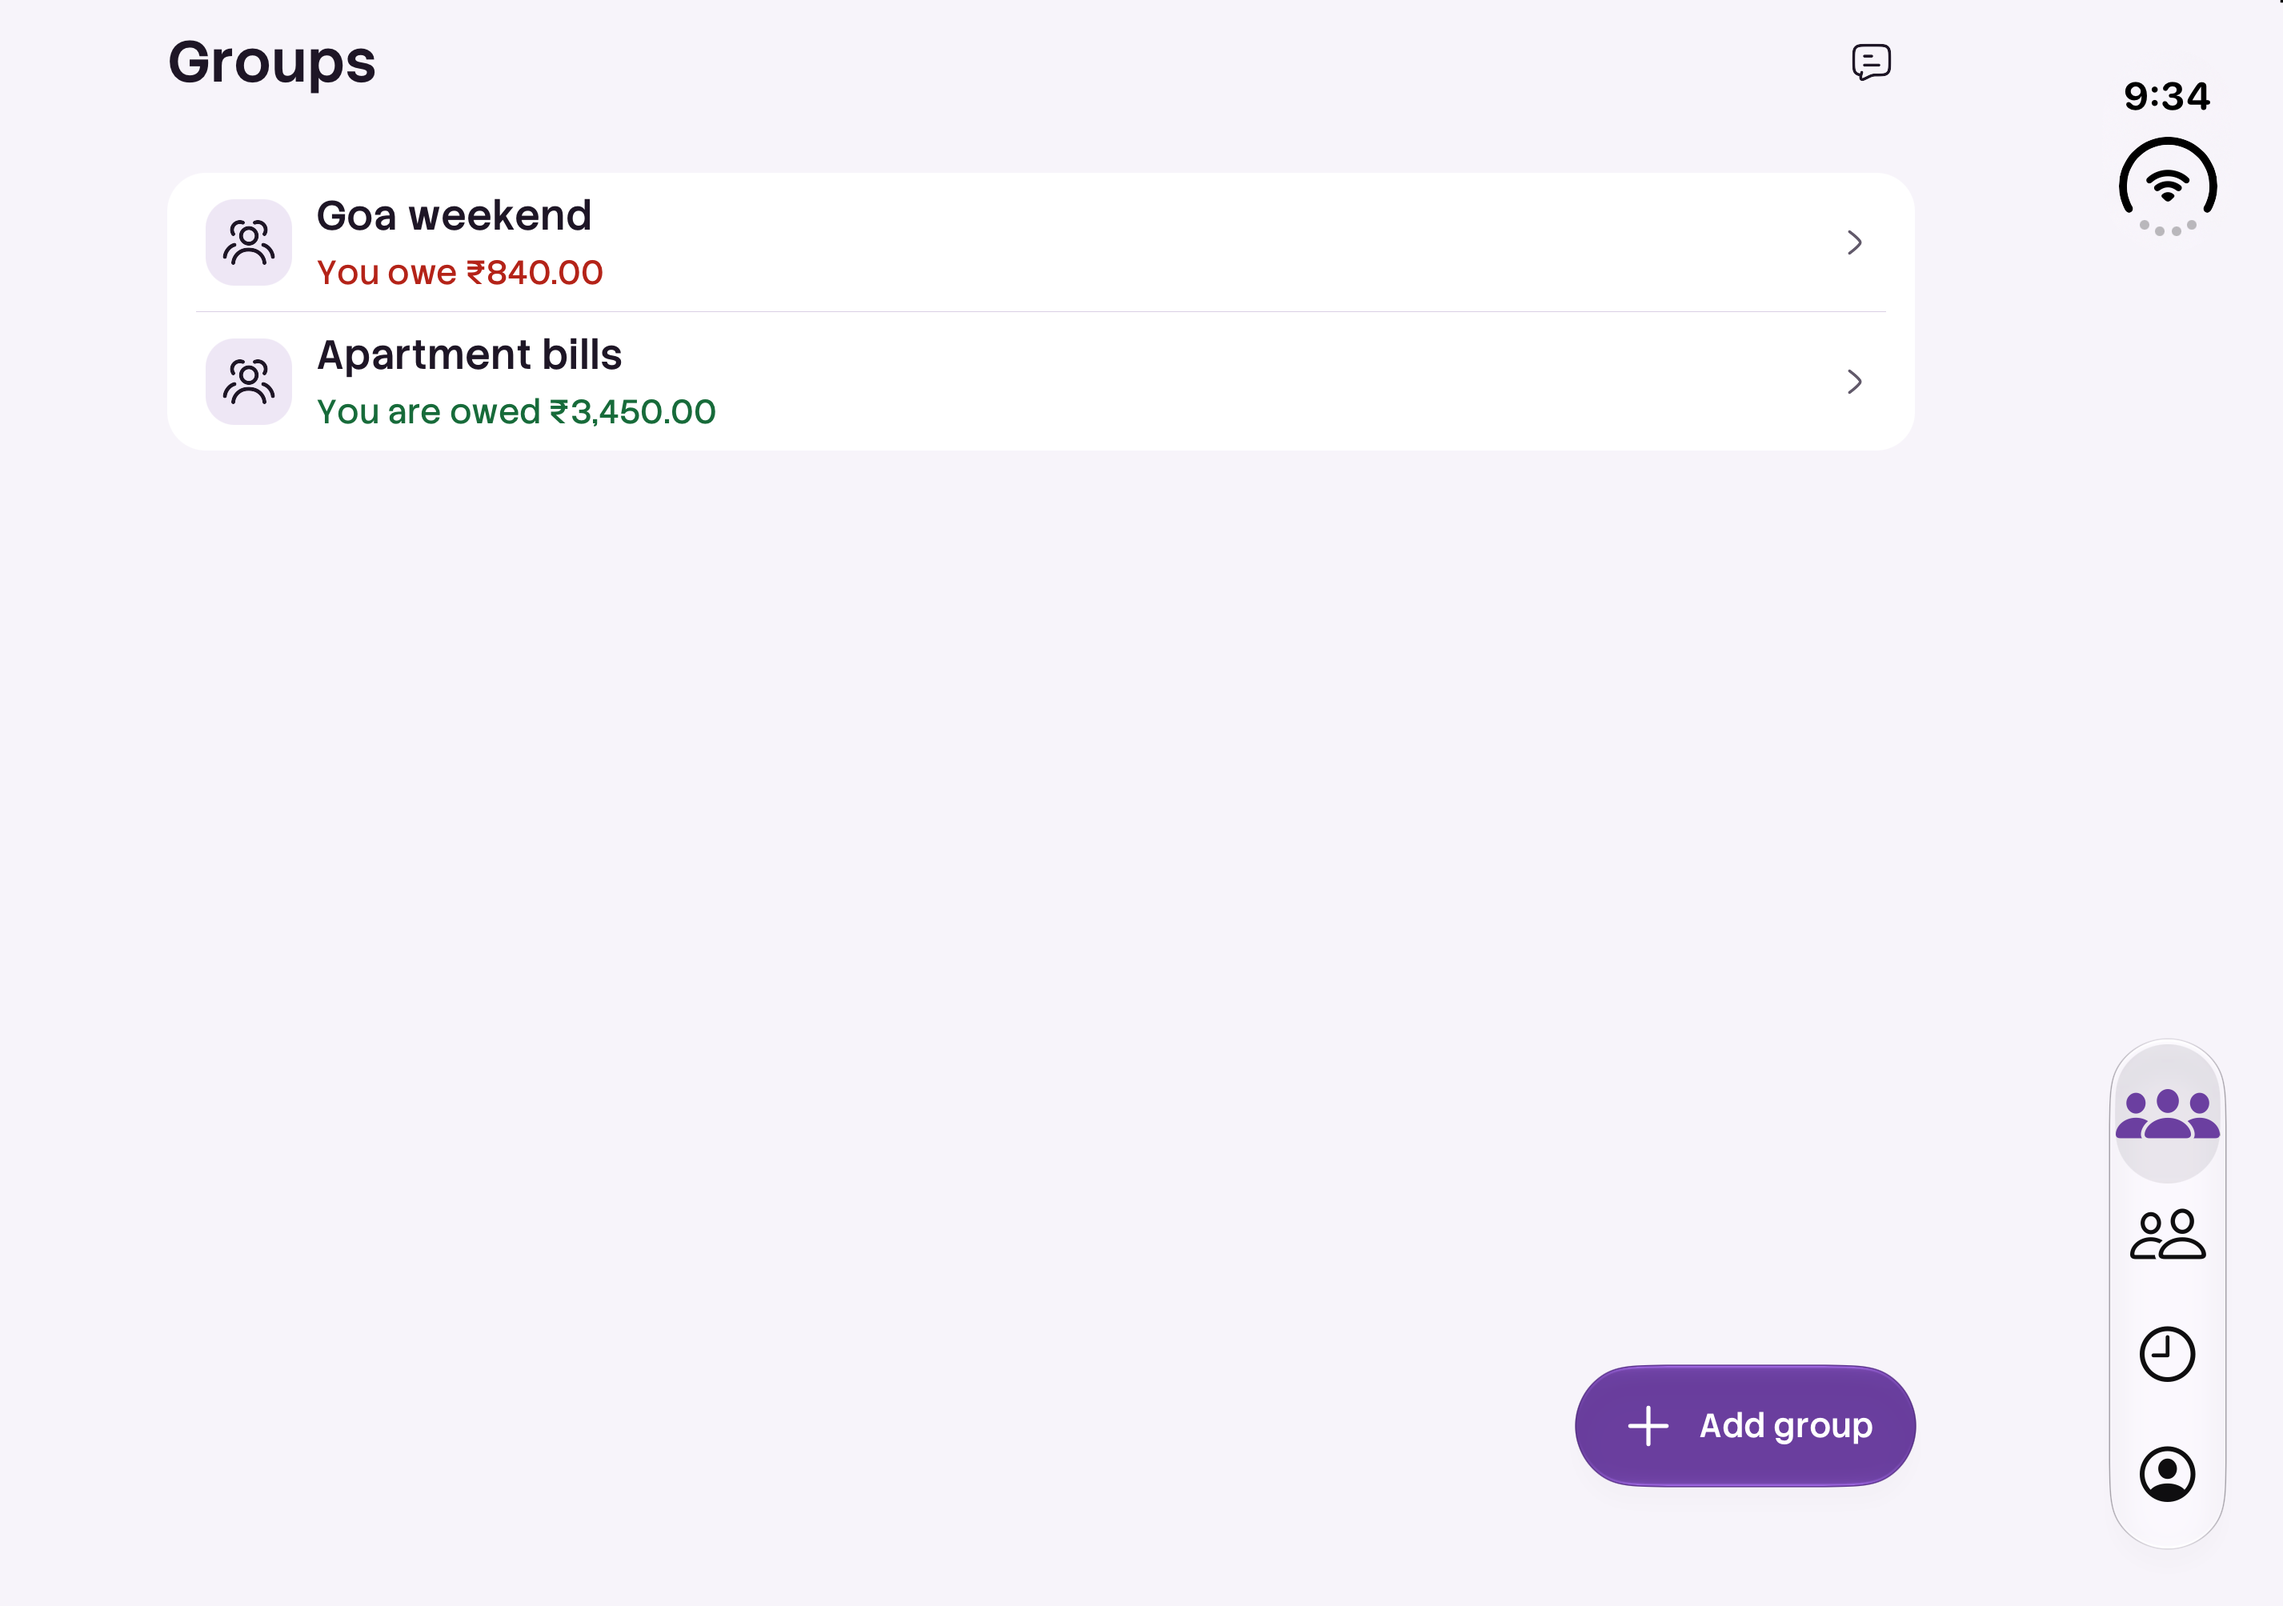
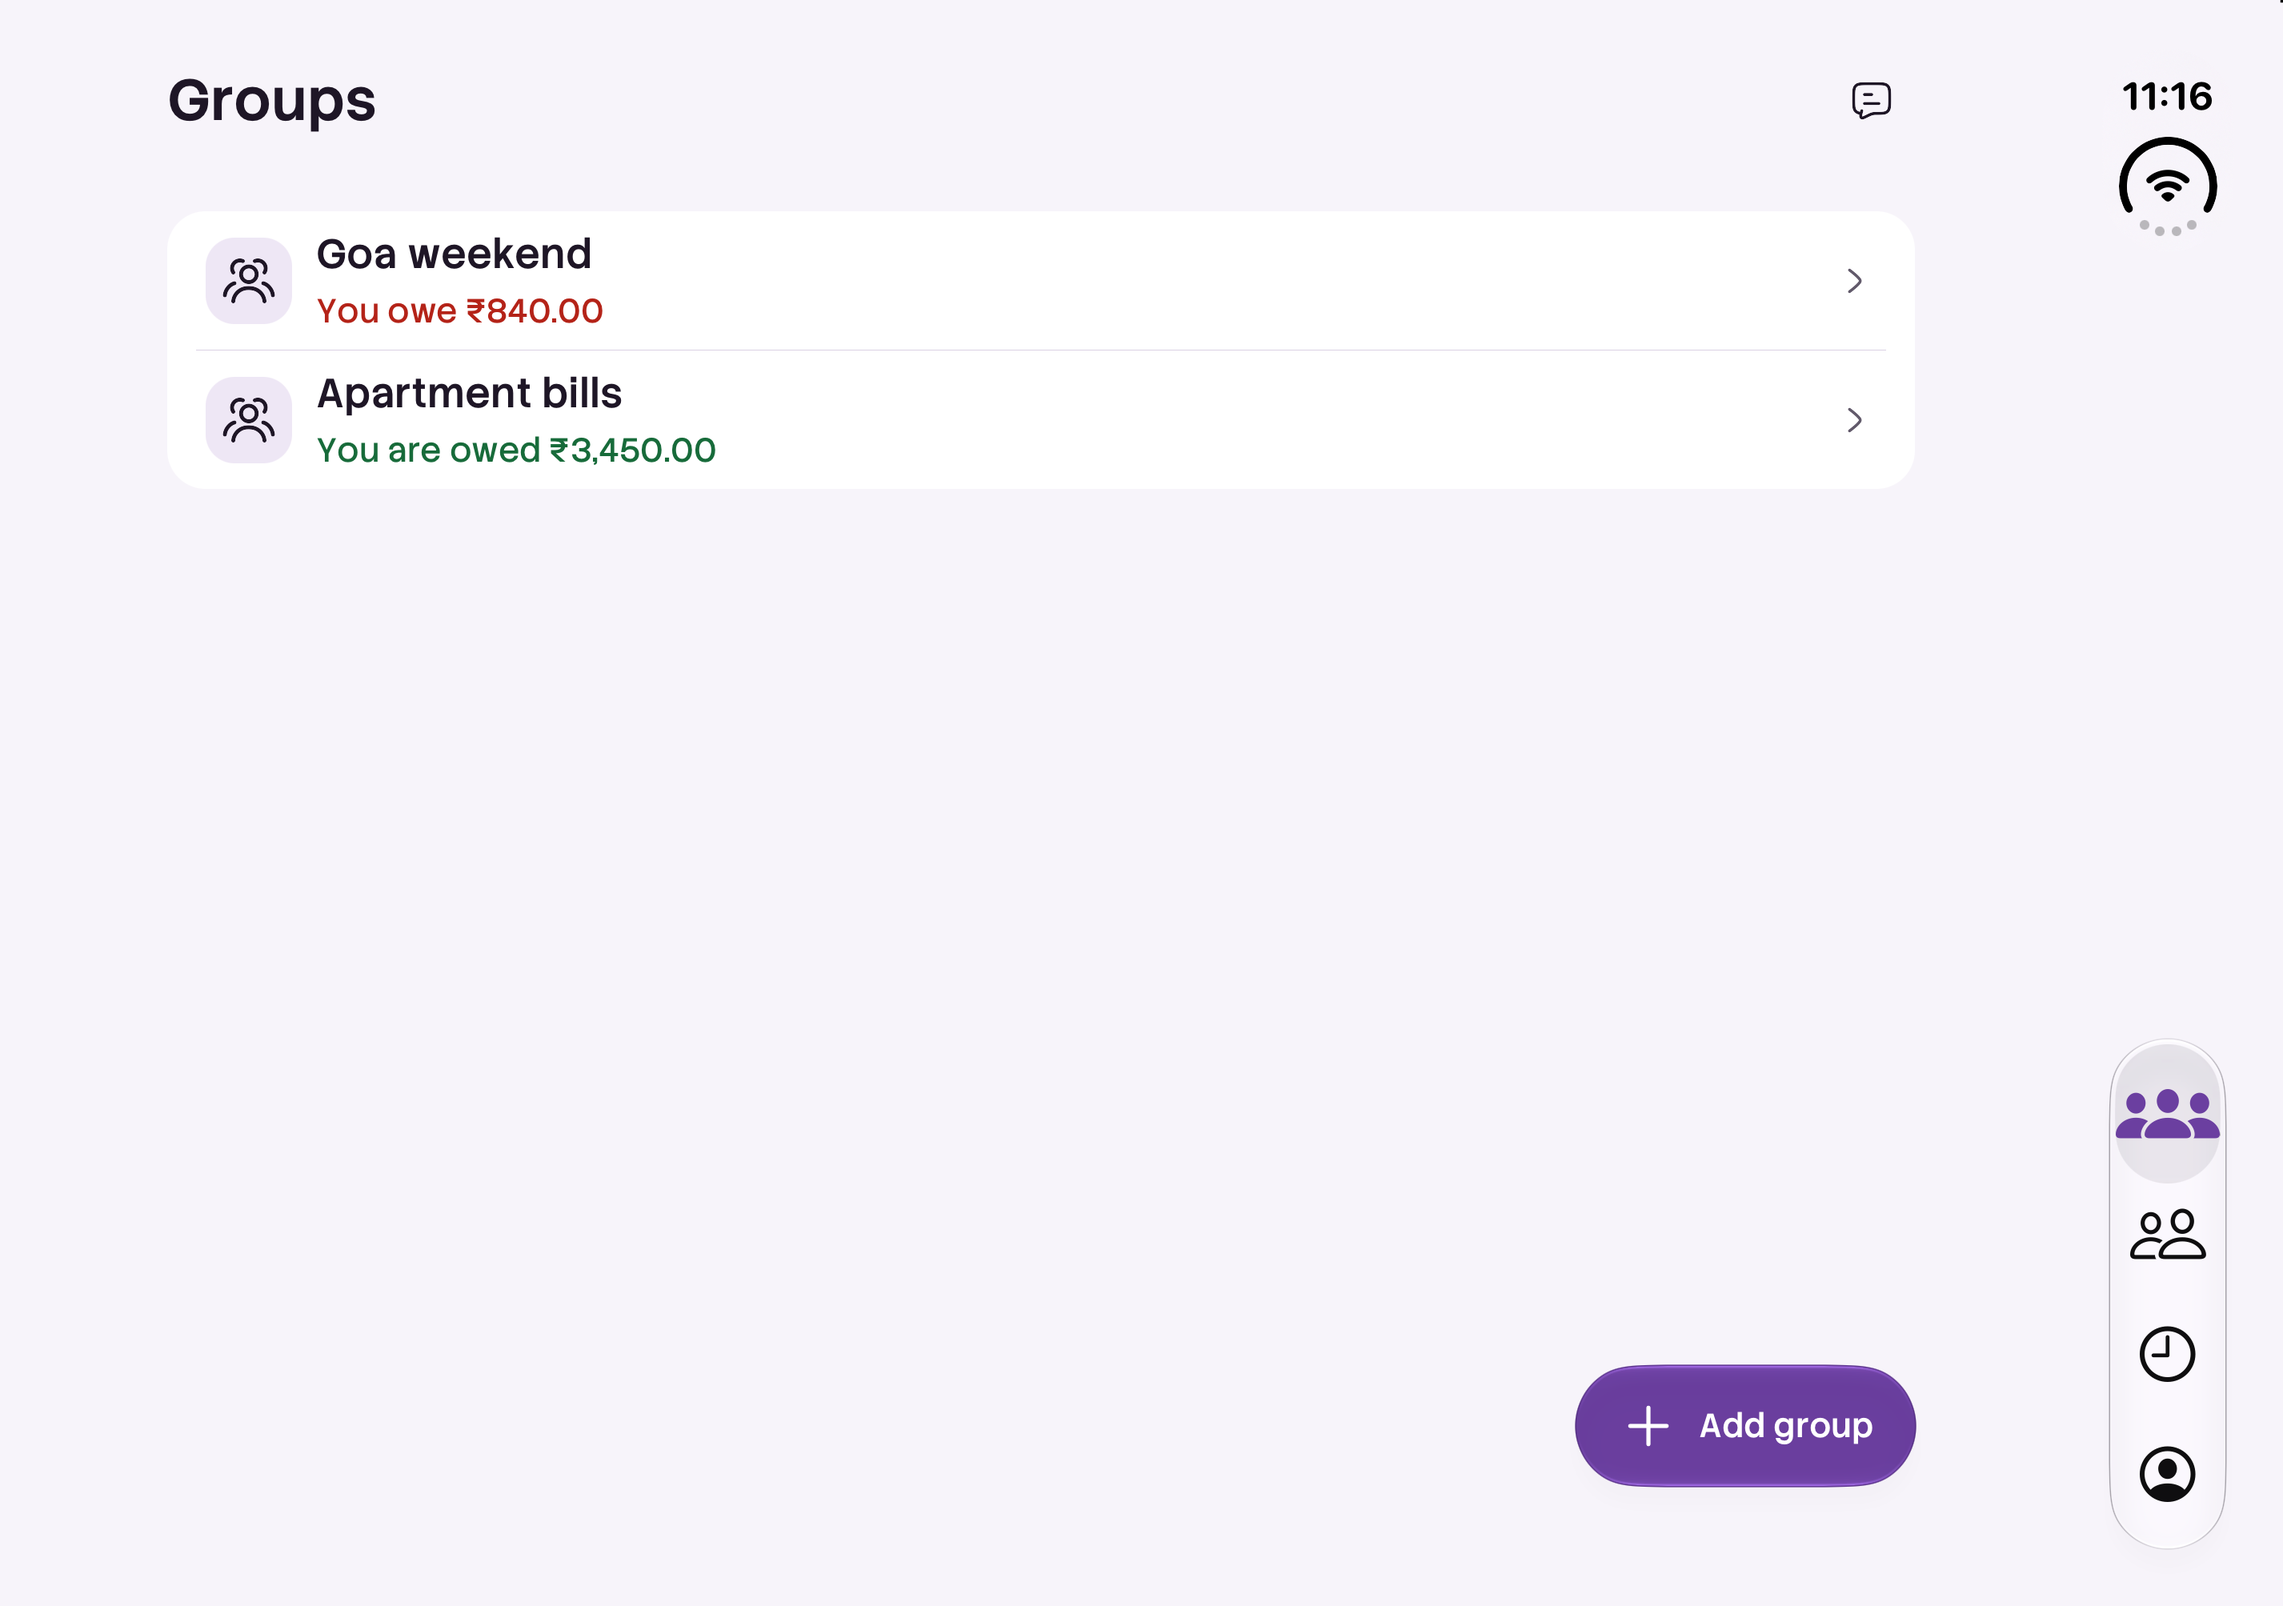
Refresh Duo artwork with verified header spacing

diff --git a/store-assets/foldables/README.md b/store-assets/foldables/README.md
@@ -14,6 +14,8 @@ Run `node store-assets/foldables/render.mjs` from a checkout with Google Chrome 
 
 The inputs are captures of the actual app running in native simulators with fictional demonstration records. The isolated QA wrapper supplies those records and automation while the production screens remain unchanged. The bill uses Beach dinner and an amount of 1240. The editable HTML adds only surrounding artwork and a decorative frame. It scales each complete capture uniformly. It does not redraw controls, move navigation, change amounts or crop the app display.
 
+The Duo captures include the native 16 pt minimum top content margin. This uses the maximum of the system safe inset and the content margin, so a side status bar cannot leave the title against the corner. Larger phone safe insets remain intact. See [Apple Duo layout guidance](https://developer.apple.com/design/human-interface-guidelines/designing-for-iphone-duo) and [maximum safe-area mode](https://appandflow.github.io/react-native-safe-area-context/docs/api/safe-area-view/). Opus reviewed both updated native captures and their final artwork on 2026-11-26 and approved them with no blockers.
+
 `capture-manifest.json` records source revision, QA provenance and input checksums. `render-proof.json` records output checksums, native dimensions and composition geometry. The renderer checks font loading, dimensions, text overlap, canvas bounds and uniform image scale. Visually inspect every output before upload.
 
 The existing normal-phone screenshots and the historical raw 1.2.6 release captures remain separate. Upload only `apple/` to the Duo slot and only `android/` to the foldable slot.
